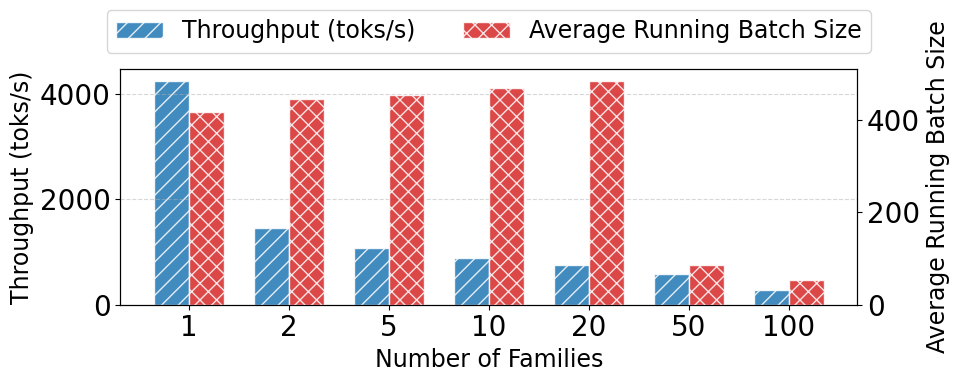
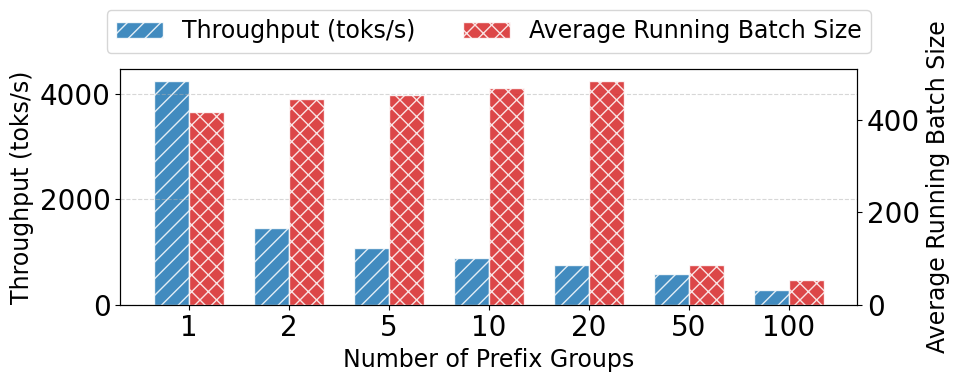
homo hetero plot intro changed

Changed region(s): [[0.3326, 0.8927, 0.6653, 0.9791]]

diff --git a/code/vllm/logs_families_experiment/plot.py b/code/vllm/logs_families_experiment/plot.py
@@ -77,7 +77,7 @@ bars1 = ax1.bar(
     edgecolor="white"
 )
 
-ax1.set_xlabel("Number of Families")
+ax1.set_xlabel("Number of Prefix Groups")
 ax1.set_ylabel("Throughput (toks/s)")
 ax1.set_xticks(x)
 ax1.set_xticklabels([str(n) for n in family_counts])
